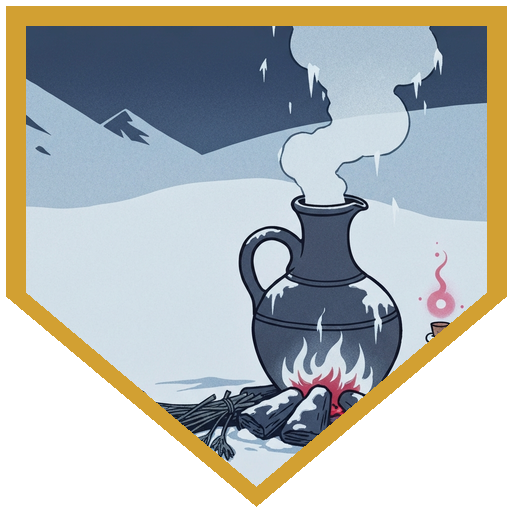
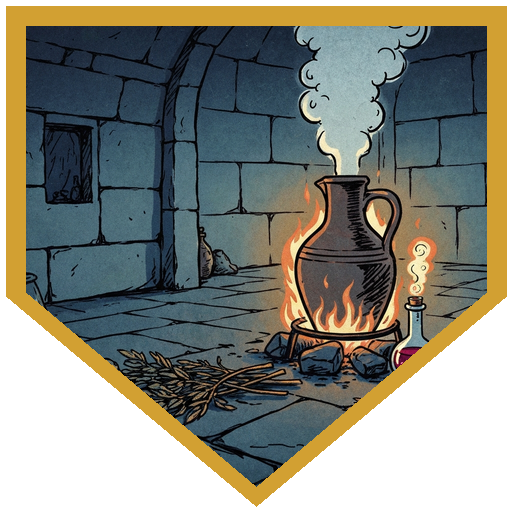
session 2026-06-12 - rework achievement images 1 and 2
Image 1 reworked from a leaping elk scene to a close-up scrimshaw
pendant carving; image 2 reworked as an interior brewing scene.

diff --git a/rpg/icewind-dale/public/sessions/2026-06-12.md b/rpg/icewind-dale/public/sessions/2026-06-12.md
@@ -23,8 +23,8 @@ players:
     character: Doctor Medicine
     class: Human Warlock 5 (Archfey Patron)
 image_prompt:
-  - "A small carved bone talisman shaped like a leaping elk, warm firelight glow, carving tools resting beside it on fur"
-  - "A clay jug bubbling over a small fire, dried herbs and a glowing vial of deep red liquid beside it, frost in the air"
+  - "Close-up of a finished bone scrimshaw pendant, flat and oval, carved with a leaping elk, resting on fur beside a small carving knife, warm firelight glow"
+  - "[interior] A clay jug bubbling over a small fire, dried herbs and a glowing vial of deep red liquid beside it"
   - "Two crossed blades glowing with soft blue-white moonlight beside a small candle burning with a cold blue flame, dark snowy background"
   - "A pale, translucent humanoid figure made of swirling whispers and faint script, hovering inside a torn fur tent at night"
   - "Three seated figures slumped peacefully around a faint glowing spiral pattern on snowy ground, calm night sky above"
